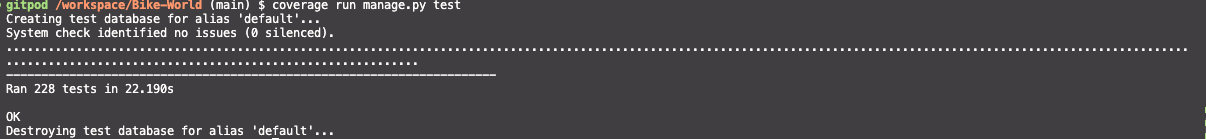
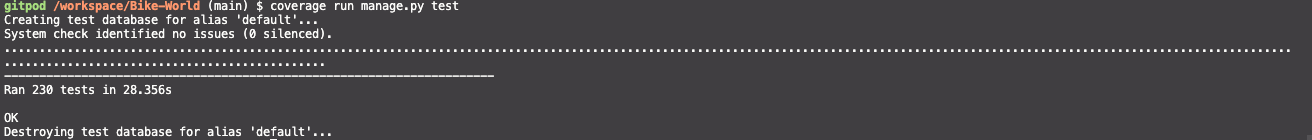
docs: Update total of unit tests for automated testing in testing.md

diff --git a/TESTING.md b/TESTING.md
@@ -27,7 +27,7 @@ Back to the [README](README.md)<br>
 
 Python **Automated Unit Testing** was implemented using the [Django Unit Testing](https://docs.djangoproject.com/en/3.2/topics/testing/overview/) framework.  
 **Unit Tests** have been written to cover all major parts of the code like **Forms**, **Models**, **Views**, **Admin**, **Context-Processors** and **Fields**. The tests were created to cover all key aspects of the code. Only the checkout app has a moderate coverage, but here manual testing was applied.
-A total of **228** **Unit Tests** have been written. All **228** tests ran successfully without errors or warnings.   
+A total of **230** **Unit Tests** have been written. All **230** tests ran successfully without errors or warnings.   
 
 <details>
     <summary>Coverage Automated Testing</summary>
